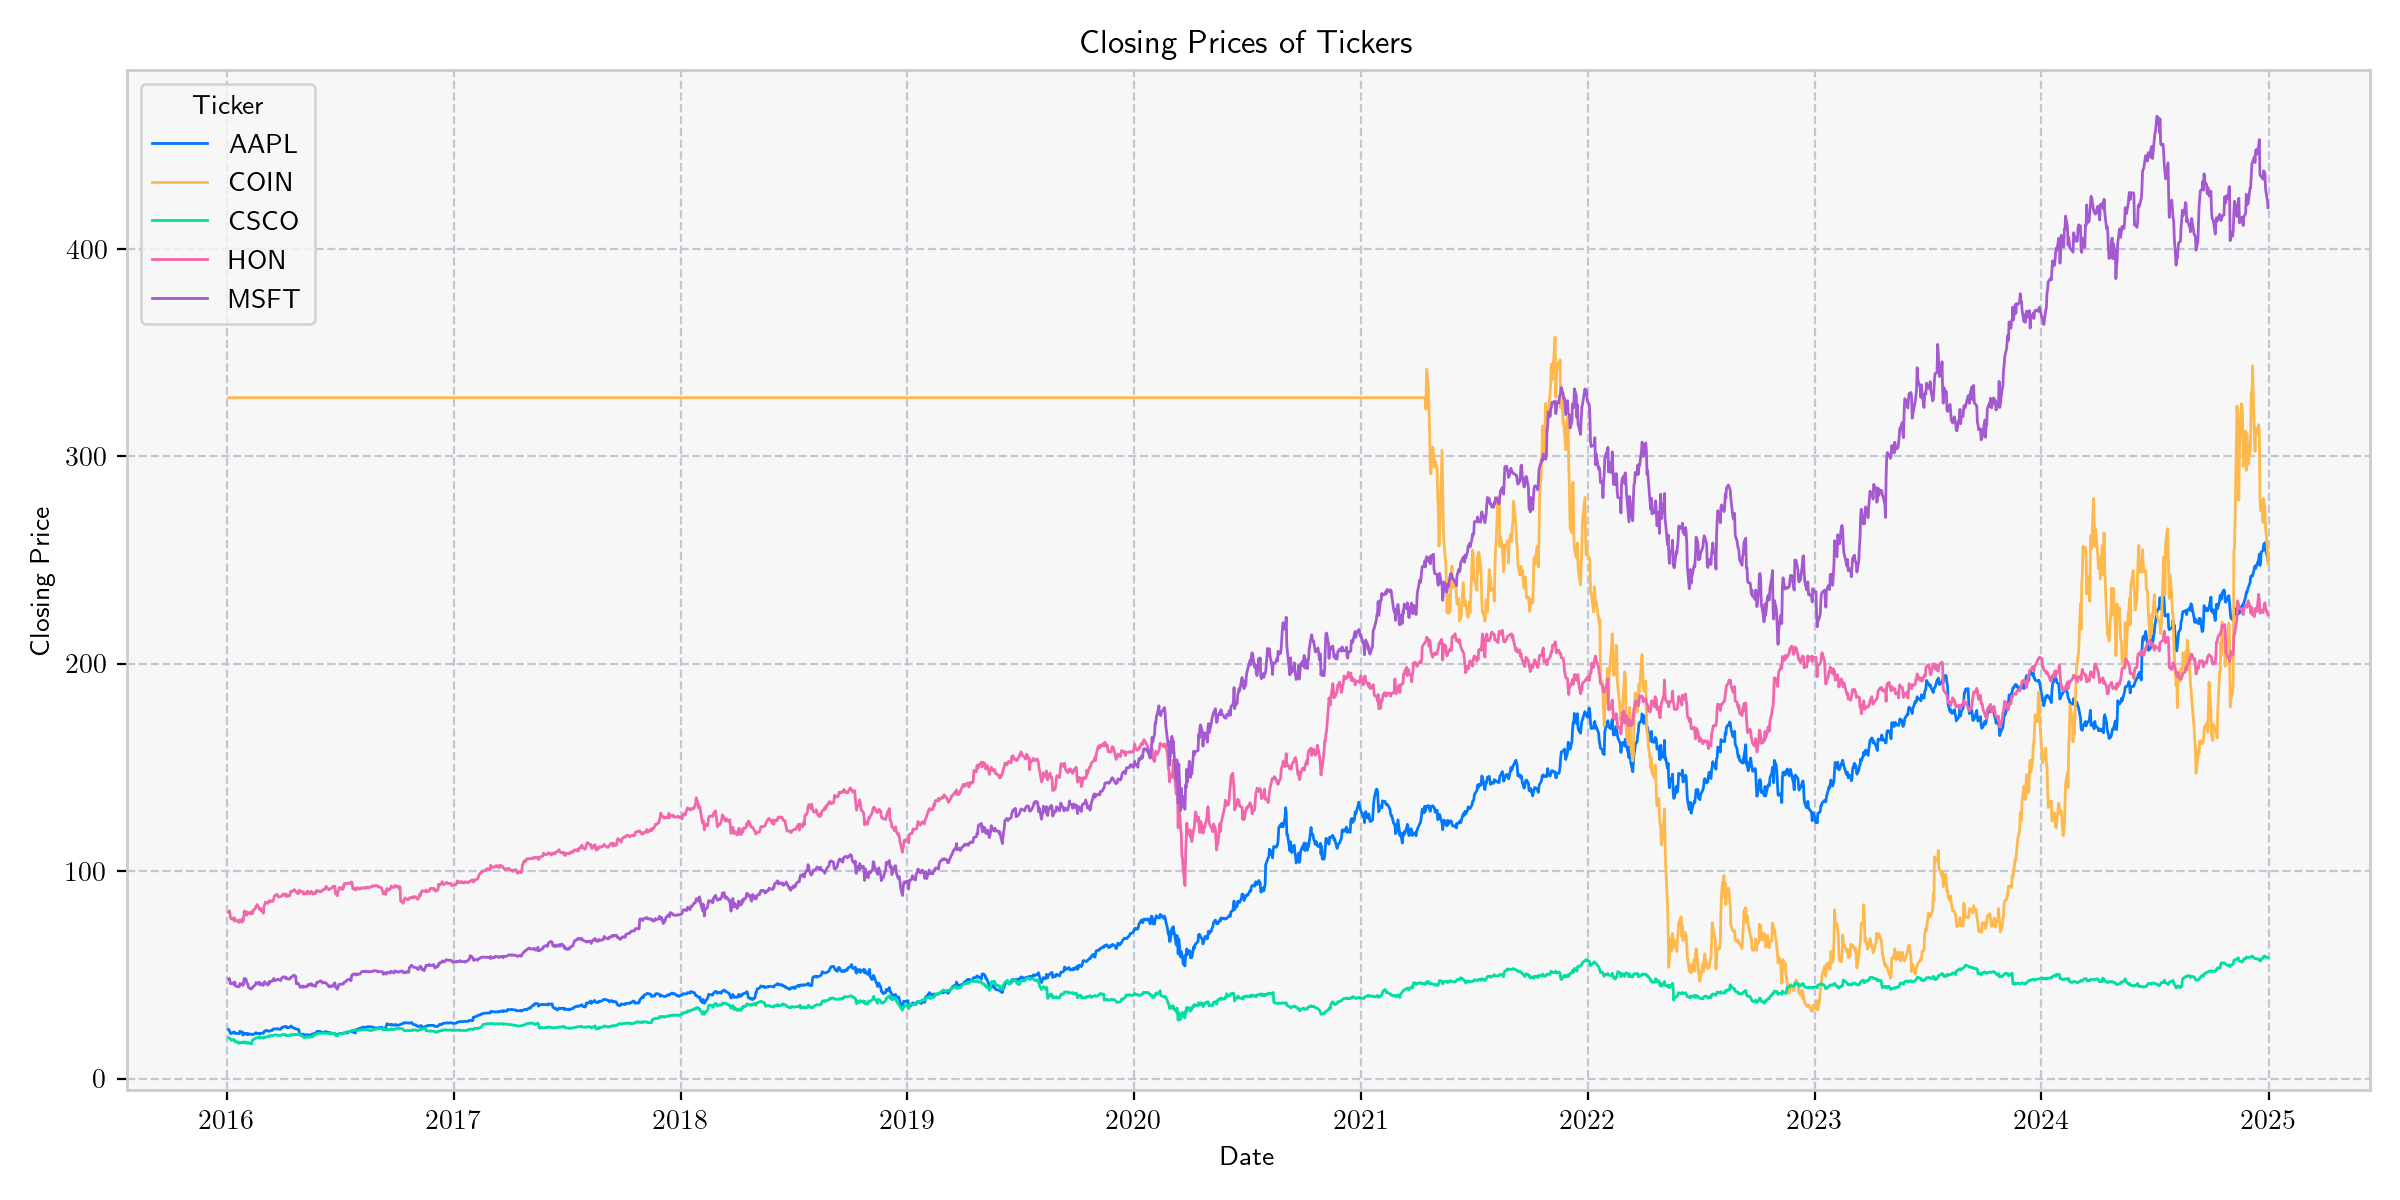
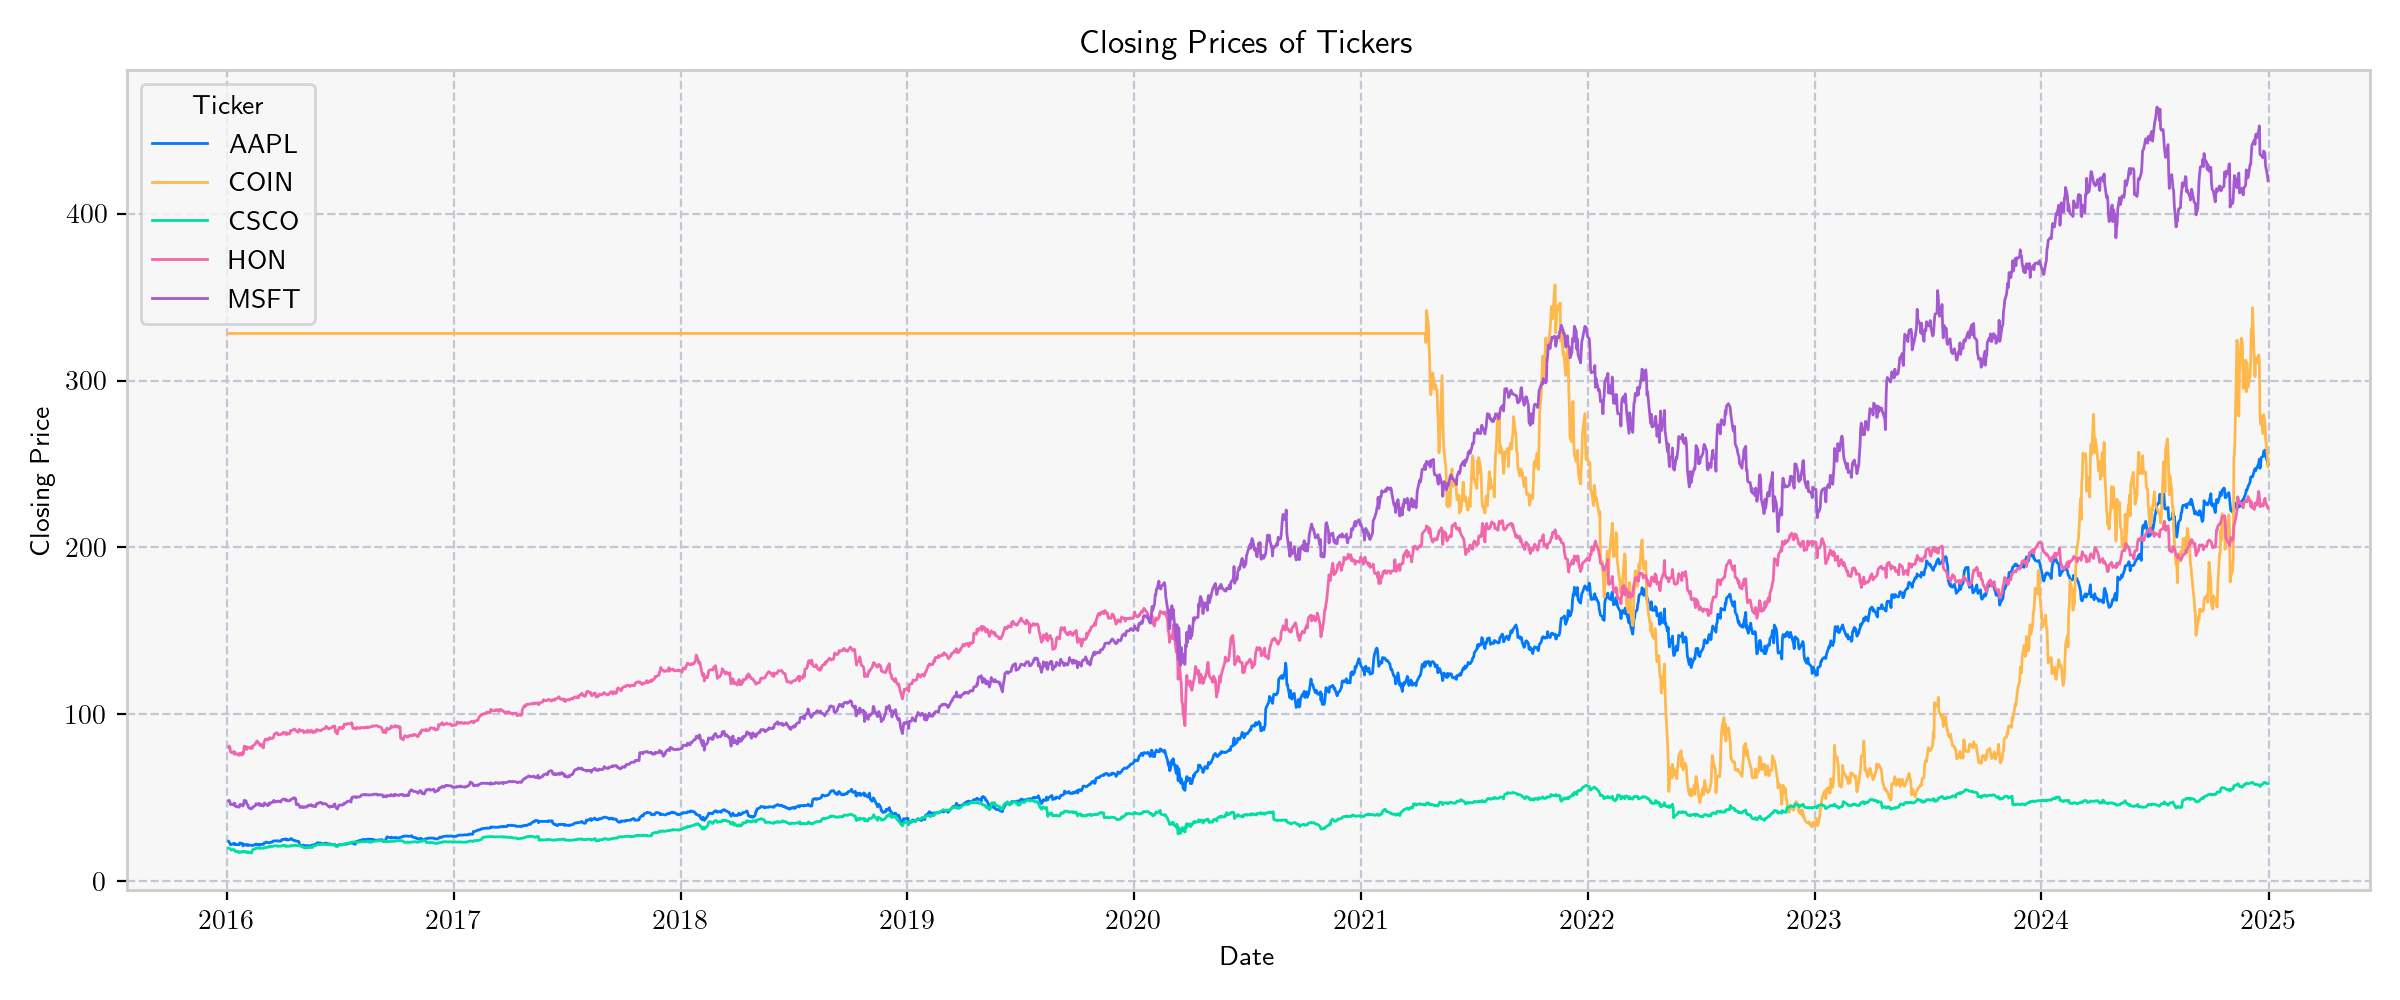
Update fig size

diff --git a/visualiser/findata_visualiser.py b/visualiser/findata_visualiser.py
@@ -16,7 +16,7 @@ class FinancialDataVisualiser:
             sample_tickers = data["Ticker"].unique()[:10]
             data = data[data["Ticker"].isin(sample_tickers)]
 
-        plt.figure(figsize=(12, 6))
+        plt.figure(figsize=(12, 5))
         sns.lineplot(data=data, x="Date", y="Close", hue="Ticker")
         plt.title("Closing Prices of Tickers")
         plt.ylabel("Closing Price")
@@ -32,7 +32,7 @@ class FinancialDataVisualiser:
         filename: str,
     ) -> None:
 
-        _, ax = plt.subplots(2, 1, figsize=(14, 8), sharex=True, sharey=True)
+        _, ax = plt.subplots(2, 1, figsize=(12, 10), sharex=True, sharey=True)
 
         sns.lineplot(
             data=train_data, x="Date", y="Close", hue="Ticker", ax=ax[0]
